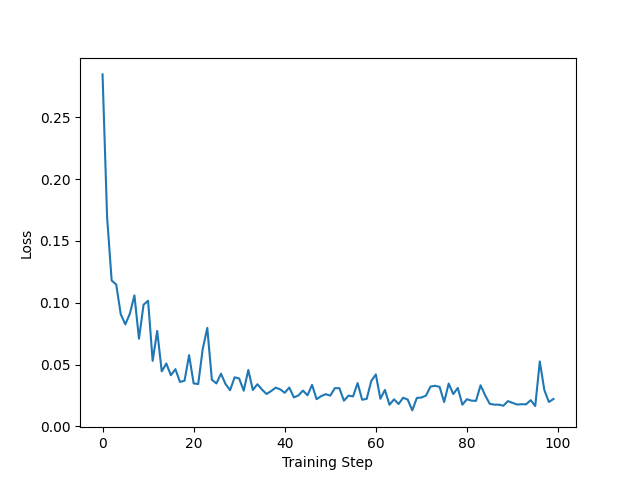
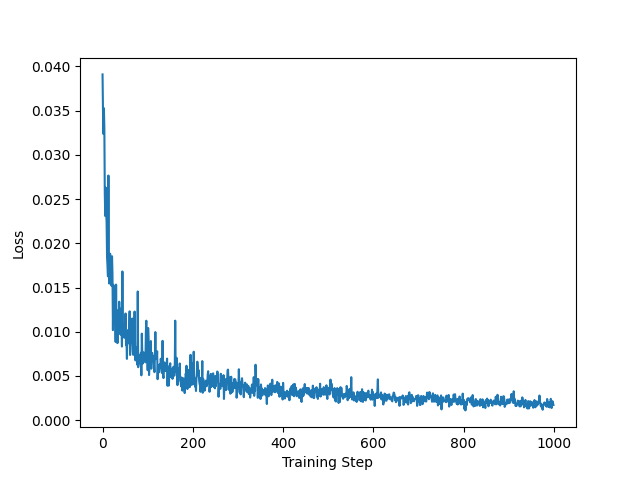
some problems

diff --git a/Exp_Scalability.py b/Exp_Scalability.py
@@ -15,7 +15,7 @@ import _folders
 from NCAs.NCA_SCALE import NCA_SCALE
 from NCAs.StateStructure import StateStructure
 from NCAs.TrainingScalability import TrainingScalability
-from NCAs.Util import set_seed, create_initial_states_real_data
+from NCAs.Util import set_seed, moving_contact_masks, create_initial_states
 from Environment.ContactBoard import ContactBoard
 
 def run_block(state_structure:StateStructure, model_name:str, seed = None):
@@ -28,32 +28,30 @@ def run_block(state_structure:StateStructure, model_name:str, seed = None):
     logger.success(f"Model {model_name} trained and saved")
 
 
-def some_visuals(experiment_name:str, id:int = 0):
+def some_visuals(model_name:str, id:int = 0):
     #load model
-    model = _folders.load_model(experiment_name).eval()
+    model = _folders.load_model(model_name).eval()
     
-    board = ContactBoard(board_shape=_config.BOARD_SHAPE, tile_size=_config.TILE_SIZE, center=(0,0))
-    X_pos,Y_pos = board.sensor_positions
+    
+    initial_state = create_initial_states(n_states=1, state_structure=state_structure, board_shape=[8,8])
 
-    initial_state = create_initial_states_real_data(n_states=1, state_structure=state_structure, X=X_pos, Y=Y_pos)[0]
-            
-    # ASSIGN DATA TO INPUT STATES       
-    initial_state[..., state_structure.sensor_channels, :, :] = torch.from_numpy(values).unsqueeze(0)
+    initial_state[..., state_structure.sensor_channels, :, :] = moving_contact_masks(1, 1, *_config.BOARD_SHAPE).unsqueeze(1)
             
     output_states:torch.Tensor = model(initial_state, np.random.randint(*_config.UPDATE_STEPS), return_frames=True)
     estimation_states = output_states[...,state_structure.estimation_channels, :, :]
-
+    sensor_states = output_states[...,state_structure.sensor_channels, :, :]
     steps = estimation_states.shape[0]
     frames = []
     for i in range(steps):
+
         estimation = estimation_states[i].detach().cpu().numpy()
+        estimation = estimation.reshape(2, -1)        
         
-        # Create a new figure for each frame
+        sensor_state = sensor_states[i].detach().cpu().numpy()[0][0]
+
         fig, ax = plt.subplots()
 
-        # Plot your board and estimation
-        #board.plot()
-        ax.imshow(values, cmap='viridis', alpha=0.9, extent=[-board.tile_size*board.board_shape[1]/2, board.tile_size*board.board_shape[1]/2, -board.tile_size*board.board_shape[0]/2, board.tile_size*board.board_shape[0]/2])
+        ax.imshow(sensor_state, cmap='viridis', alpha=0.9)
 
 
         estimation_x = estimation[0].flatten()
@@ -61,13 +59,13 @@ def some_visuals(experiment_name:str, id:int = 0):
         mestx = np.mean(estimation_x)
         mesty = np.mean(estimation_y)
         ax.scatter(estimation_x, estimation_y, c='orange', marker='x', label='Estimation')
-        ax.scatter(cmx, cmy, c='blue', marker='x', label='Real')
+        #ax.scatter(cmx, cmy, c='blue', marker='x', label='Real')
         ax.scatter(mestx, mesty, c='red', marker='x', label='Mean Estimation')
 
         #draw and arrow from the real to the mean estimation
-        ax.arrow(cmx, cmy, mestx-cmx, mesty-cmy, head_width=0.1, head_length=0.1, fc='grey', ec='grey')
+        #ax.arrow(cmx, cmy, mestx-cmx, mesty-cmy, head_width=0.1, head_length=0.1, fc='grey', ec='grey')
         #draw text with the distance between the real and the mean estimation
-        ax.text(cmx + (mestx-cmx)/2, cmy + (mesty-cmy)/2, f'{np.linalg.norm([mestx-cmx, mesty-cmy]):.2f} mm', fontsize=12, color='black')
+        #ax.text(cmx + (mestx-cmx)/2, cmy + (mesty-cmy)/2, f'{np.linalg.norm([mestx-cmx, mesty-cmy]):.2f} mm', fontsize=12, color='black')
         # Convert the figure to a NumPy array
         #label
         ax.legend()
@@ -81,7 +79,7 @@ def some_visuals(experiment_name:str, id:int = 0):
         plt.close(fig)
 
     # Create a GIF from the list of frames
-    visual_path = f'{_folders.VISUALIZATIONS_PATH}/{experiment_name}_{id}.gif'
+    visual_path = f'{_folders.VISUALIZATIONS_PATH}/{model_name}_{id}.gif'
     imageio.mimsave(visual_path, frames, fps=60)
 
 
@@ -91,8 +89,8 @@ if __name__ == '__main__':
     experiment_name=f'Exp_Scalability'
     _folders.set_experiment_folders(experiment_name)
     _config.set_parameters({
-        'BOARD_SHAPE' :     [4,4],
-        'TRAINING_STEPS' :  100,
+        'BOARD_SHAPE' :     [8,8],
+        'TRAINING_STEPS' :  1000,
         'BATCH_SIZE' :      10,
     })
 
@@ -104,4 +102,5 @@ if __name__ == '__main__':
     
     model_name = 'Scalability'
     run_block(state_structure=state_structure, model_name= model_name, seed=None)
-    
+    for i in range (5):
+        some_visuals(model_name = model_name, id=i)
